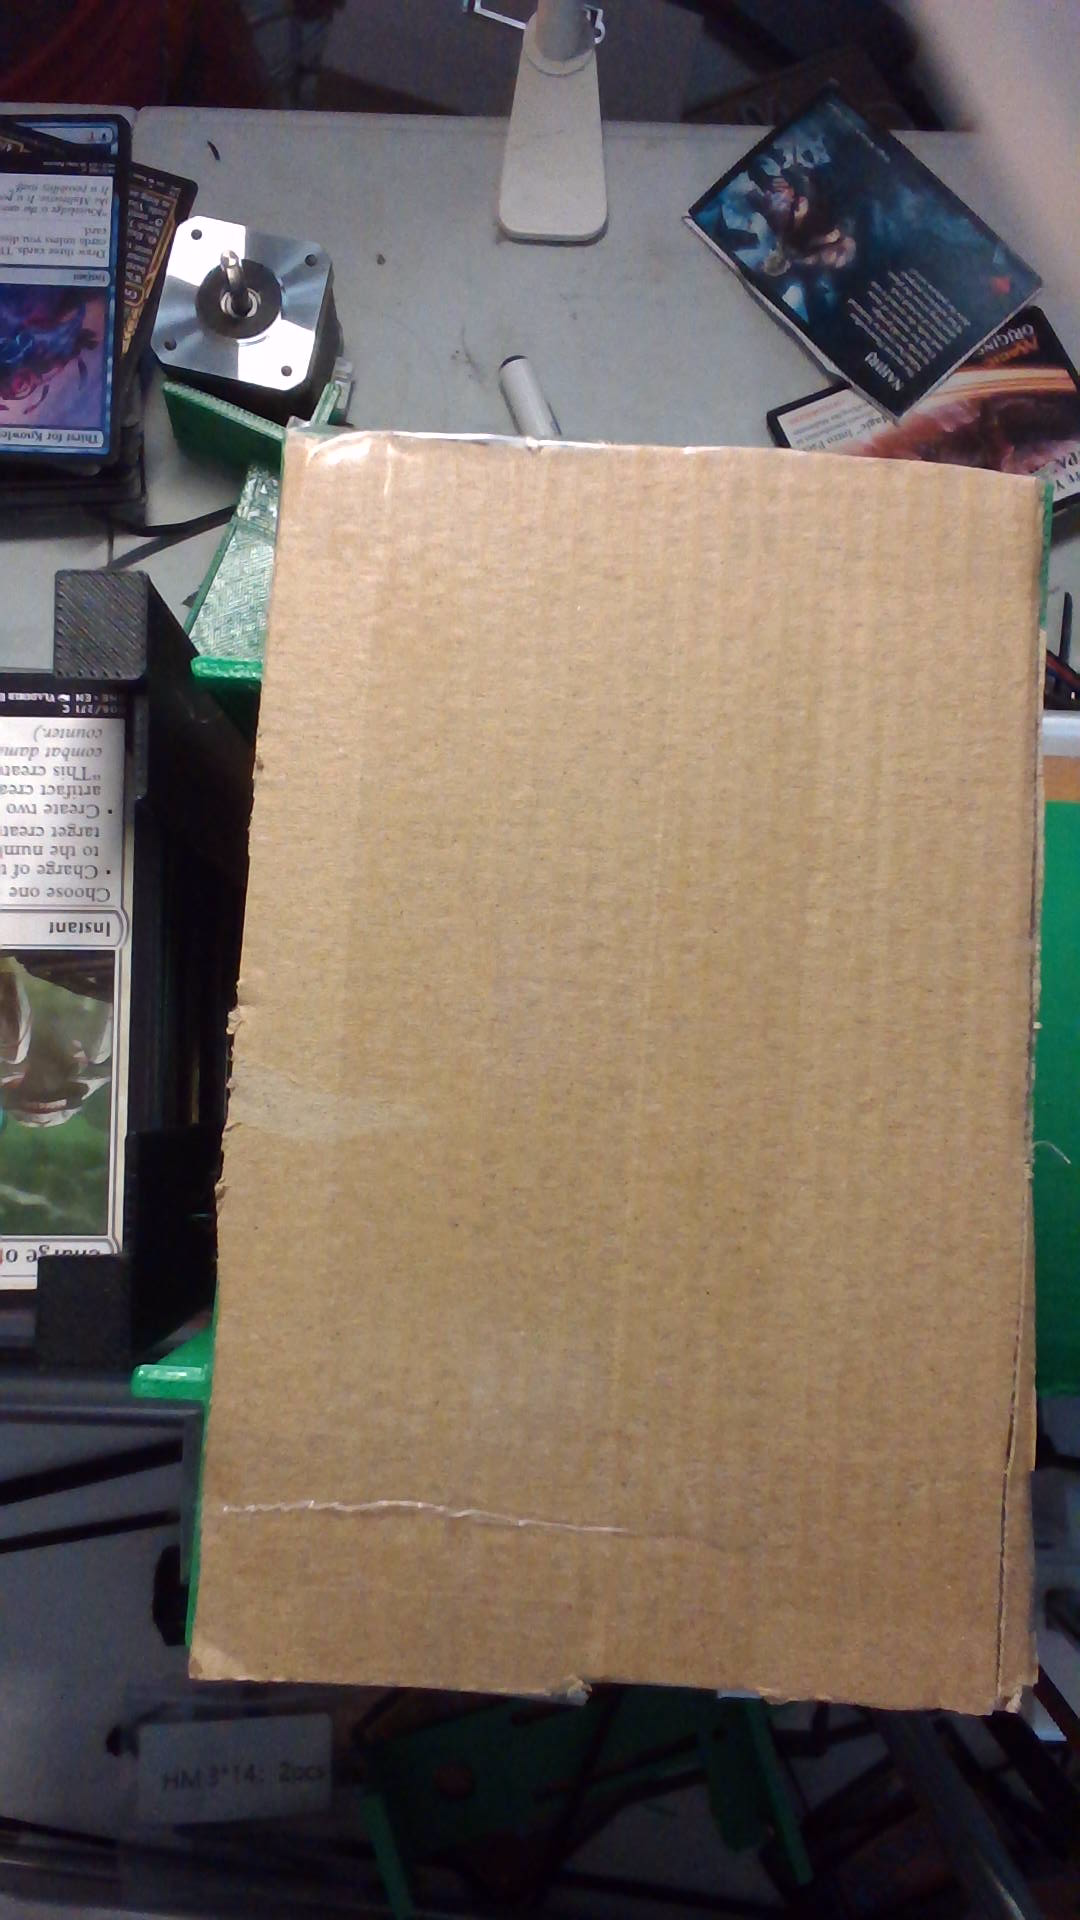
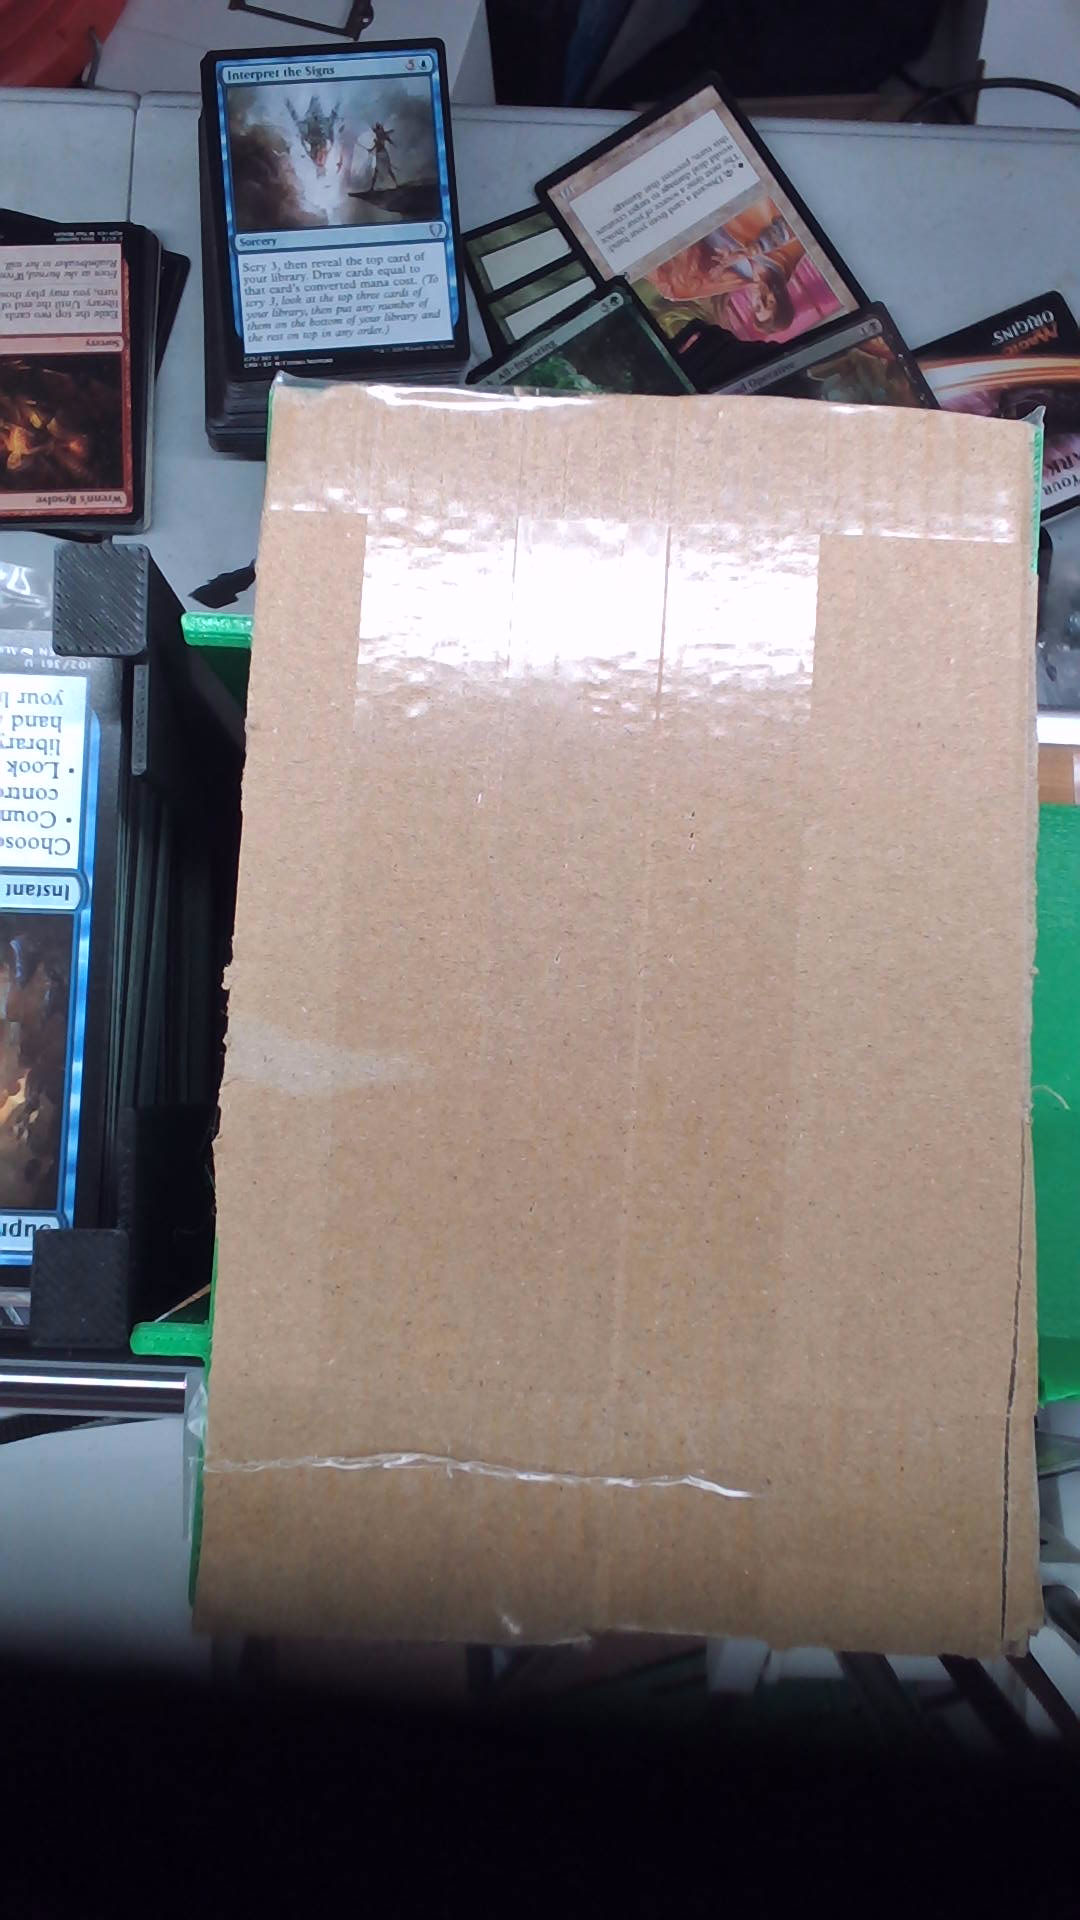
detection: exclude UNK set, cap phash gap rule, save no-detect frames
- Add 'unk' (Unknown Event) to EXCLUDED_SETS. Dummy placeholder cards
  like 'Common Curve Filler' have near-blank art that was winning
  phash matches against real dark cards at high distance.
- Cap phash gap rule at distance <= 85 (PHASH_GAP_MAX_DIST). A decisive
  #1-to-#2 gap at 90+ distance just means 'least-bad noise match', not
  a real hit. Calibrated against 362-scan regression set.
- Save the camera frame to <session>/no_detect/ when no card contour
  is found, so we can audit what the camera actually saw.
- Re-calibrated staging_roi.json corners and refreshed background ref.

diff --git a/card_identify_hybrid.py b/card_identify_hybrid.py
@@ -5,13 +5,15 @@
 # Decision rules (applied in order):
 #   1. Both agree on the same card name  ->  trust phash
 #   2. phash distance <= 82              ->  trust phash  (confident)
-#   3. phash #1-to-#2 gap >= 5           ->  trust phash  (clear winner)
+#   3. phash dist <= 85 AND gap >= 5     ->  trust phash  (near-confident + clear winner)
 #   4. Otherwise                         ->  trust DINOv2
 #
-# The gap rule (3) catches cases where phash has the right card at a high
-# absolute distance (e.g. foils, lighting variation) but a decisive lead
-# over #2.  On the 362-scan regression set, phash-correct cases always
-# show gap >= 5.3 while phash-wrong cases always show gap <= 4.0.
+# The gap rule (3) catches cases where phash has the right card at a
+# slightly-elevated distance (e.g. foils, lighting variation) but a
+# decisive lead over #2.  Capped at dist <= 85 because at higher
+# distances (90+), even large gaps just mean "least bad noise match"
+# (e.g. Common Curve Filler's all-black art matched dark cards at 90+
+# with gap 7+ but was completely wrong).
 #
 # Drop-in replacement for card_identify.py — same API:
 #   identify_card(card_img, threshold) -> (card_id, distance, rotated, results)
@@ -44,9 +46,12 @@ from cards import CARD_DATA_BY_ID
 PHASH_CONFIDENCE_THRESHOLD = 82
 
 # Gap between phash rank #1 and #2.  When phash has a decisive lead
-# (gap >= 5), it's correct even at high absolute distance (e.g. foils).
+# (gap >= 5) at moderate distance (<=85), it's correct even above the
+# main confidence threshold (e.g. foils).
 # Calibrated on 362-scan set: correct high-dist gap >= 5.3, wrong gap <= 4.0.
+# Capped at 85 to prevent false positives from blank-art trap cards (90+).
 PHASH_GAP_THRESHOLD = 5.0
+PHASH_GAP_MAX_DIST = 85
 
 
 def _get_name(card_id):
@@ -105,9 +110,10 @@ def identify_card(card_img, threshold=None):
     if p_dist <= PHASH_CONFIDENCE_THRESHOLD:
         return p_id, p_dist, p_rot, p_results
 
-    # Case 3: Phash has a decisive lead over #2 -> trust phash even at
-    # high absolute distance (catches foils, lighting variation, etc.)
-    if len(p_results) >= 2:
+    # Case 3: Phash has a decisive lead over #2 at moderate distance ->
+    # trust phash (catches foils, lighting variation).
+    # Only applies at dist <= 85; at 90+ a big gap just means noise.
+    if p_dist <= PHASH_GAP_MAX_DIST and len(p_results) >= 2:
         gap = p_results[1][1] - p_results[0][1]
         if gap >= PHASH_GAP_THRESHOLD:
             return p_id, p_dist, p_rot, p_results

diff --git a/web_worker.py b/web_worker.py
@@ -1066,6 +1066,7 @@ class SortWorker:
             self.log(f"No card detected on staging "
                      f"(attempt {self._no_detect_retries}/"
                      f"{self._max_no_detect_retries})")
+            self._save_no_detect_image(frame)
             self.emit('card_detected', {'recognized': False,
                                         'reason': 'no_card_in_frame'})
 
@@ -1507,6 +1508,24 @@ class SortWorker:
             filepath = os.path.join(self._scan_images_dir, filename)
             cv2.imwrite(filepath, frame, [cv2.IMWRITE_JPEG_QUALITY, 85])
         except Exception as e:
+            pass  # Don't fail sorting over image save errors
+
+    def _save_no_detect_image(self, frame):
+        """Save the camera frame when no card contour was detected.
+
+        Stored in a no_detect/ subdirectory so the user can review what
+        the camera saw when detection failed.
+        """
+        if frame is None or self.tracker is None:
+            return
+        try:
+            nd_dir = os.path.join(self.tracker.session_dir, "no_detect")
+            os.makedirs(nd_dir, exist_ok=True)
+            filename = (f"nodet_{self.scan_count + 1:04d}"
+                        f"_attempt{self._no_detect_retries}.jpg")
+            filepath = os.path.join(nd_dir, filename)
+            cv2.imwrite(filepath, frame, [cv2.IMWRITE_JPEG_QUALITY, 85])
+        except Exception:
             pass  # Don't fail sorting over image save errors
 
     def _save_card_crop(self, card_img):

diff --git a/build_hash_db_v3.py b/build_hash_db_v3.py
@@ -127,6 +127,10 @@ def should_exclude_card(card):
         return True
     if card.get('layout', '') in EXCLUDED_LAYOUTS:
         return True
+    # Set-level exclusions (dummy sets, promos with no real cards)
+    from config import EXCLUDED_SETS
+    if card.get('set', '').lower() in EXCLUDED_SETS:
+        return True
     type_line = card.get('type_line', '')
     name = card.get('name', '')
     set_type = card.get('set_type', '')

diff --git a/config.py b/config.py
@@ -38,6 +38,7 @@ SCAN_LOGS_DIR = os.path.join(SCRIPT_DIR, "scan_logs")
 EXCLUDED_SETS = {
     "30a", "lea", "leb", "fbb", "ced", "cei", "4bb", "ptc", "sum",
     "cmb1", "cmb2",  # Mystery Booster playtest cards — too visually similar to each other
+    "unk",           # Unknown Event — dummy placeholders (Common Curve Filler etc.)
 }
 
 # --- Hardware / G-code ---
